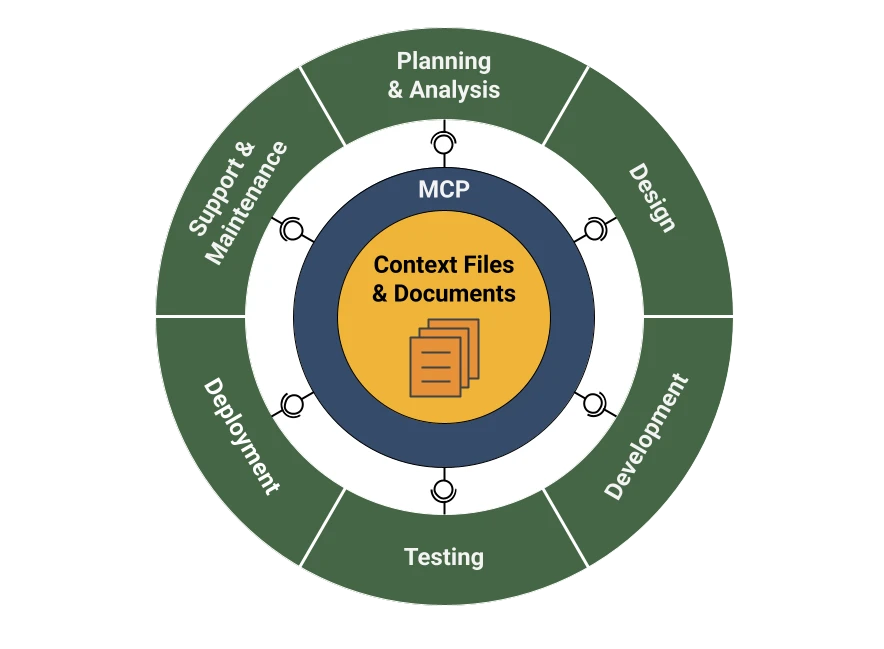
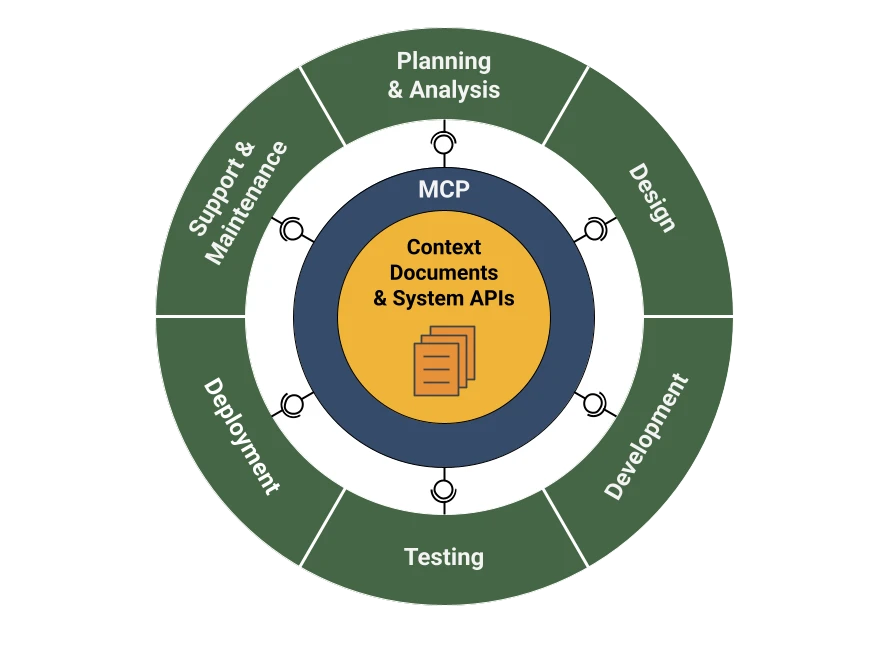
article updates

Changed region(s): [[0.3971, 0.3698, 0.5803, 0.6163]]

diff --git a/content-software/power-up-your-sdlc-with-ai.md b/content-software/power-up-your-sdlc-with-ai.md
@@ -16,34 +16,34 @@ Most software engineers are already using AI coding assistants and agents to enh
 
 ## It’s all about Context
 
-Every SDLC process includes phases such as: *Planning & Analysis, Design, Development, Testing, Deployment, Support & Maintenance*. Each phase of the process is dependent on contextual information being available, about the business domain, the users, the technologies and the software being developed. 
+Every SDLC process includes phases such as: *Planning & Analysis, Design, Development, Testing, Deployment, Support & Maintenance*. Each phase of the process is dependent on contextual information being available, about the business domain, the users, the technologies and the software being developed. This information is generated within and moves through the process, in written and verbal formats.
 
-The key to leveraging the power of AI is to make this context readily available to AI agents. It can be in various text based formats including: documents, web pages, markdown files, API responses (JSON) etc.
+The key to maximising the power of AI is to make all of this context readily available to AI agents. It can be in various text based formats including: documents, web pages, markdown files, system APIs (JSON) etc.
 
-If the context is written with AI in mind, it effectively becomes prompts and instructions for the AI. The higher quality the context, the higher quality the AI’s output.
+If the context is written with AI in mind, it effectively becomes prompts and instructions for AI. The higher quality the context, the higher quality the AI’s output.
 
 The high level steps to make this happen are:
 
-* Identify existing sources of contextual information, review and fill any gaps in those sources  
+* Identify existing sources of contextual information
+  * review and fill any gaps in those sources, such as implicit company knowledge and conventions
 * Provide AI agents with access to the context
-* Upskill the team, to write and reference the appropriate context in each phase  
-* Apply change management to roll out the new ways of working 
+* Upskill the team, to write and reference the appropriate context during each phase of the process
 
 ## Model Context Protocol
 
 [Model Context Protocol (MCP)](https://modelcontextprotocol.io/overview) is a powerful open protocol that acts like universal plumbing between existing enterprise systems and AI agents, avoiding custom API integrations. 
 
-A MCP server is a simple adapter service that (generally) runs in the context of a user, on their laptop and provides consistent interfaces that AI agents can interact with. These interfaces provide the means to request contextual information (resources) and to execute tools that will perform actions.
+A MCP server is a simple adapter service that (typically) runs in the context of a user, on their laptop and provides consistent interfaces that AI agents can interact with. These interfaces provide the means to request contextual information (resources) and to execute tools that will perform actions.
 
 Many of the concepts discussed below can be achieved by manually providing contextual information to an AI chatbot or agent, however MCP servers provide a way to automate the flow, avoiding a lot of copying and pasting. For example, an AI agent can automatically retrieve the details of a task from a work management system when prompted with a ticket number. 
 
-MCP servers are available (or becoming available) for most enterprise systems that are used within a SDLC process. If an existing MCP server does not exist, any experienced software engineer can create a MCP server to wrap an API.
+MCP servers are available (or becoming available) for most enterprise systems that are used within a SDLC process. If an existing MCP server does not exist, any experienced software engineer can create a MCP server to wrap an existing API.
 
-A note of caution, some MCP servers expose too much functionality, giving the AI agent excessive agency. This is an example of the risk described in the OWASP Top 10 for LLMs: [LLM08: Excessive Agency](https://genai.owasp.org/llmrisk2023-24/llm08-excessive-agency/). Either use a proxy or implement your own MCP server to only expose the capabilities that you really need.
+A note of caution, some MCP servers expose too much functionality, giving the AI agent excessive agency or access to sensitive data. This is an example of the risk described in the OWASP Top 10 for LLMs: [LLM08: Excessive Agency](https://genai.owasp.org/llmrisk2023-24/llm08-excessive-agency/). Either use a proxy or implement your own MCP server to only expose the capabilities that you really need.
 
 ## AI Agents Across SDLC Phases
 
-Now that we understand the importance of context and have a means of providing it to AI agents, let’s look at how these can be applied to power up each phase of the SDLC. 
+Now that we understand the importance of context and we have a means of providing it to AI agents, let’s look at how to power up each phase of the SDLC. 
 
 <img src="/content-software/images/ai-sdlc-diagram.webp" alt="AI SDLC Diagram" class="article-image" style="max-width: 100%;" />
 
@@ -138,7 +138,7 @@ AI agents are rapidly changing how software is developed and delivered. Using AI
 
 Start by introducing changes to the Planning & Analysis phase, then progressively work through each subsequent phase. By ensuring that the context generated is high-quality, relevant, and reusable, it will create a compounding effect: each phase becomes more efficient and better aligned with the next.
 
-The result? A cohesive, AI-powered SDLC that accelerates delivery, improves quality, and empowers teams to deliver better software.
+The result? A cohesive, AI-powered SDLC that empowers teams and accelerates the delivery of high quality software.
 
 
 <div id="comments" class="comments"></div>
